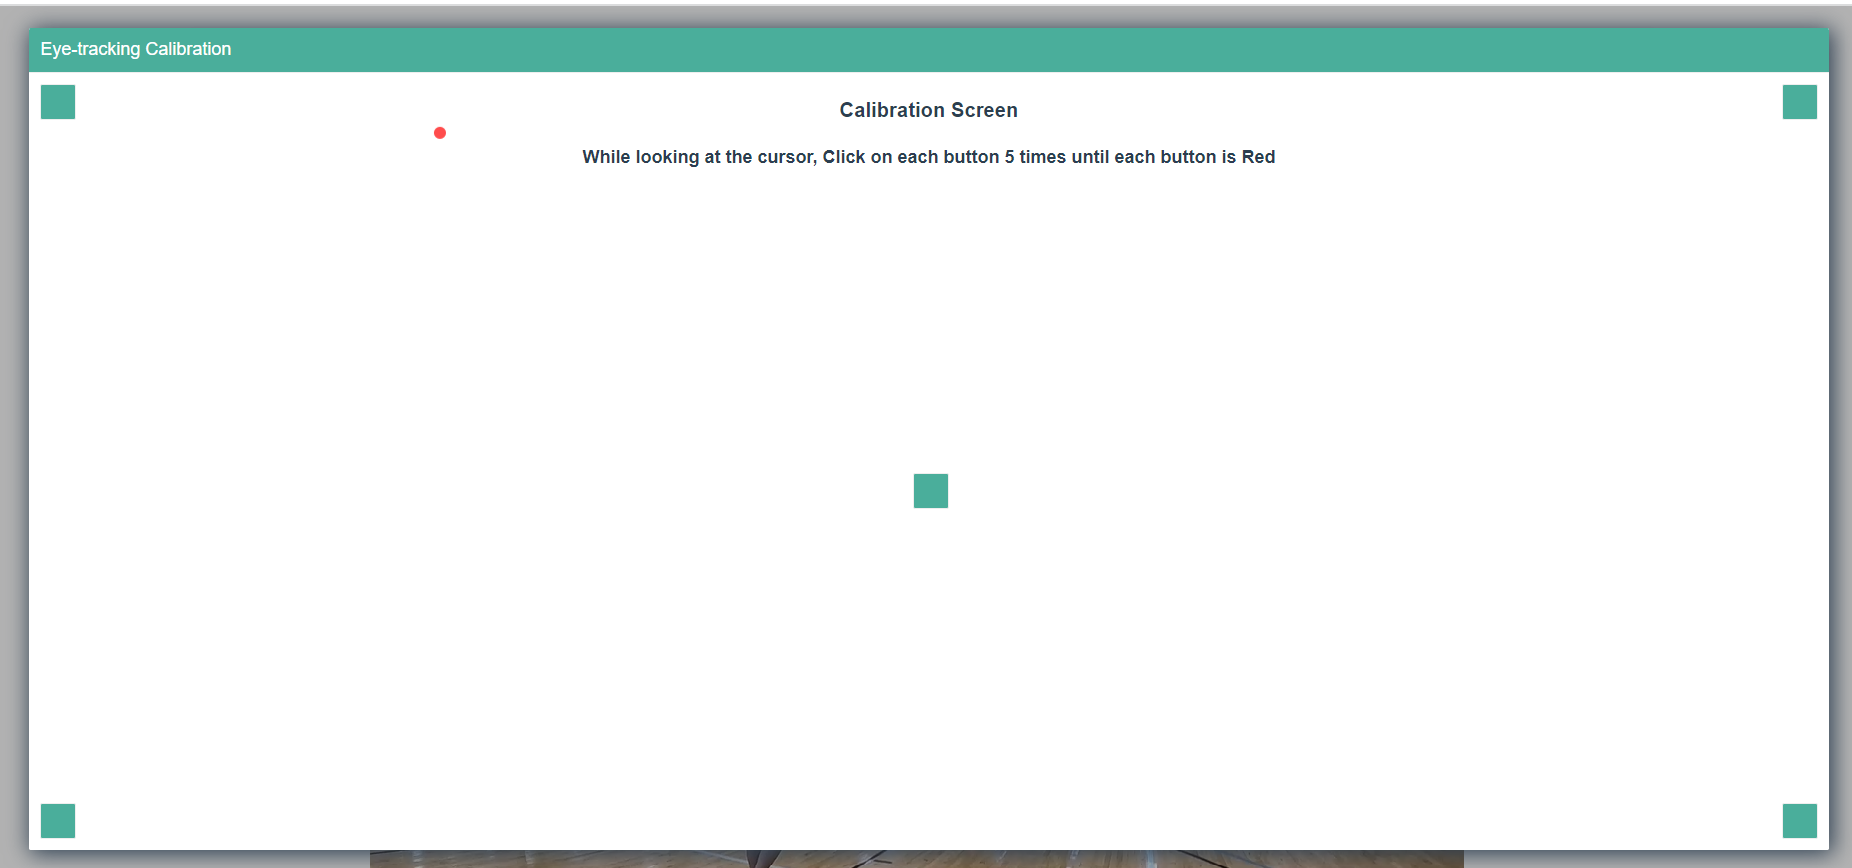
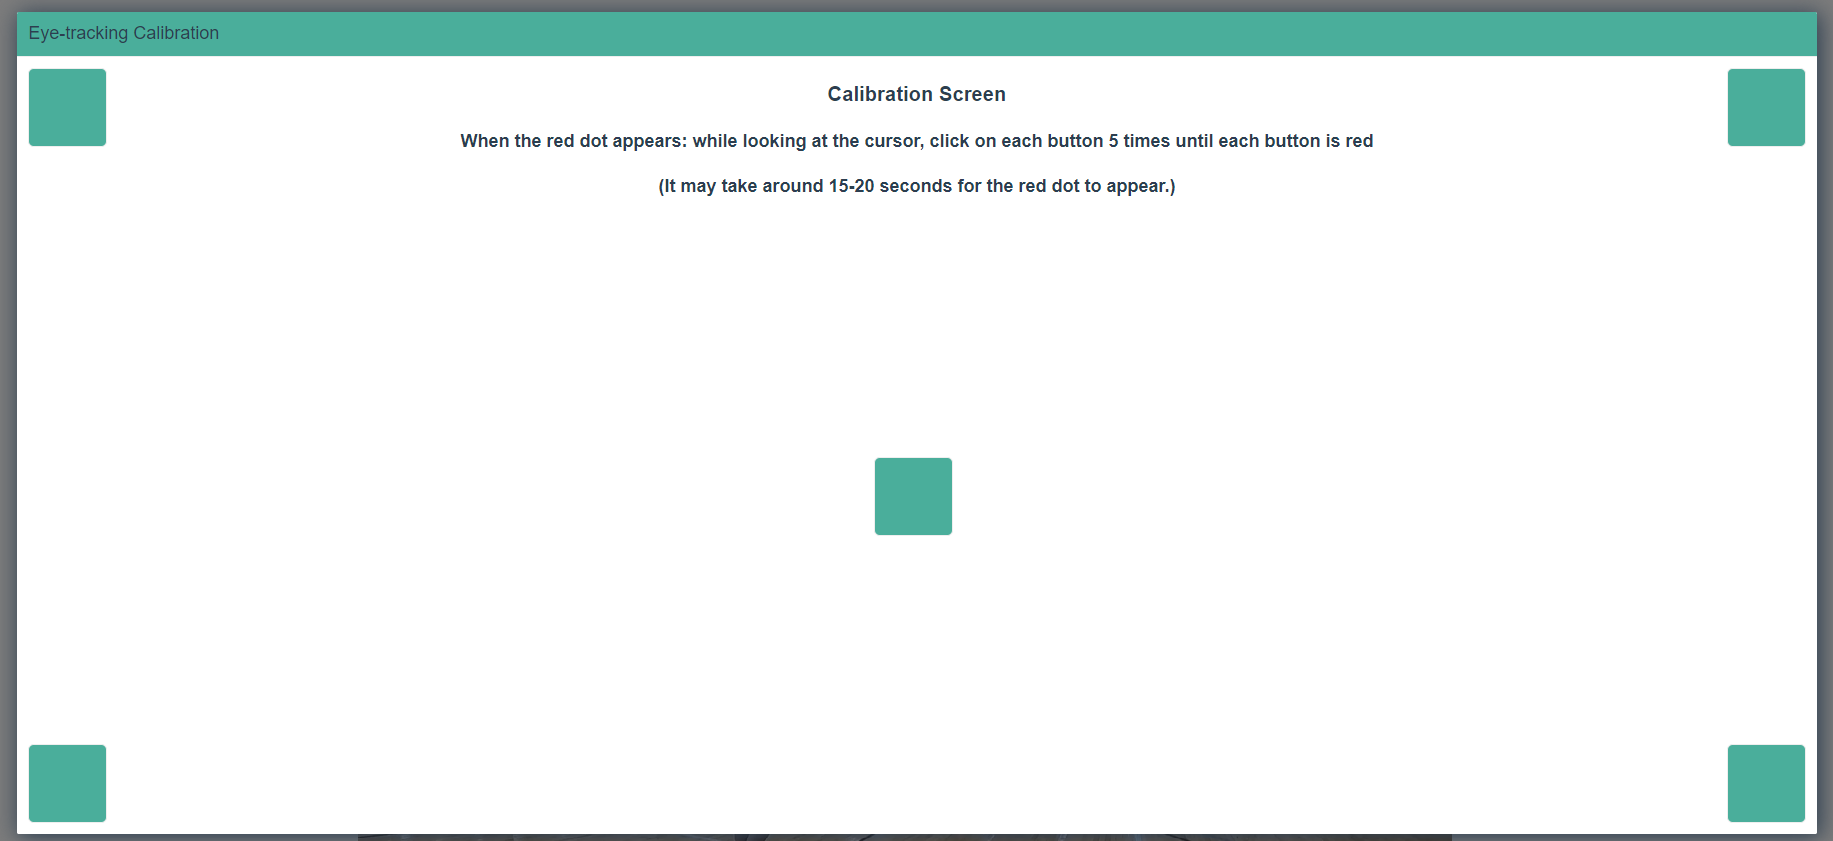
update user.md

Changed region(s): [[0.0, 0.0, 1.0, 1.0], [0.3421, 0.2164, 0.653, 0.2473], [0.4664, 0.5256, 0.5286, 0.6492]]

diff --git a/Documentation/User.md b/Documentation/User.md
@@ -59,14 +59,19 @@ This is the documentation that guides a user on how to use the Ref-Reps Right ca
 <img src="Assets/openVideo.png" width="600">
 
 - The User would be taken to a Lesson Creation page where they can add timestamps to the video they uploaded and cannot save/upload the lesson until they attach a question to it.
-- User would click the "Add Timestamp Here" button to save a timestamp where that timestamp would then appear in a menu above the big button with an additional option to add an activity.
+- User would click the "Timestamp" button to save a timestamp where that timestamp would then appear in a menu above the big button with an additional option to add an activity.
 - The user can also update the lesson name at any time by typing in the new name and clicking the Update Name button.
 - The user cannot save/upload the timestamp until each timestamp has a filled out question attached to it.
 
-<img src="Assets/questionTypeOptions.PNG" width="600">
+<img src="Assets/questionInfo.png" width="600">
+
+- To view the information of already added questions like the question, answer choices, and the correct answer, you just need to hover over the left icon for any activity.
+- When you hover over a question icon, a box will appear and display the specifics for that question.
+
+<img src="Assets/questionTypeOptions.png" width="600">
 
 - The User then clicks on the left icon beside the timestamp to create a new activity, and would be able to insert a question and possible answer choices, including selecting the correct answer, in the text fields provided before saving. 
-- The User has the option of creating a multiple choice, short answer, or Eye Tracking question.
+- The User has the option of creating a multiple choice, short answer, Eye Tracking, or Drag & Drop question.
 
 <img src="Assets/create_lesson.png" width="600">
 
@@ -75,6 +80,7 @@ This is the documentation that guides a user on how to use the Ref-Reps Right ca
 <img src="Assets/eyeTrackingQuestion.png" width="600">
 
 - For the eye-tracking question, you can write the question, and then choose the quadrant of the screen the student should be looking at. 
+- You also have the option to choose between Corner Quadrants and Vertical Quadrants of the screen.
 - On the "Assign New Activity" popup, the user must click the save button if they wish to attach the question to the timestamp. Clicking close would not add the question to the timestamp, and the admin would need to add the question again.
 - Once finished adding questions and timestamps, the User can click the "Save" button at the bottom left corner of the timestamps and activities list which will upload the timestamps and questions and redirect the user back to the page where they can select lessons to add timestamps to.
 - If the user is done editing lessons, they can click the Save button to go back to the main admin page.
@@ -92,7 +98,7 @@ This is the documentation that guides a user on how to use the Ref-Reps Right ca
 ## Instructor Logged In
 <img src="Assets/instructorHomePage.png" width="600">
 
-- When an instructor logs in, they will see four buttons to choose from.
+- When an instructor logs in, they will see five buttons to choose from.
 
 <img src="Assets/createClass.png" width="600">
 
@@ -114,11 +120,11 @@ This is the documentation that guides a user on how to use the Ref-Reps Right ca
 - Instructor can select the Add/Remove Students button.
 - The instructor sees all available students, and can either click a student from the left section to remove from the class or a student from the right section to add to the class.
 
-<img src="Assets/addVideosToInstructorClass.png" width="600">
+<img src="Assets/addLessonsToInstructorClass.png" width="600">
 
 - Instructor can select the Add/Remove Lessons button.
 - Here they can see all of their custom lessons they can add to the class.
-- Right now there are zero lessons in the class, to add one, the instructor can just click a lesson from the right section.
+- Right now there are three lessons in the class, to add one, the instructor can just click a lesson from the right section.
 - To remove a lesson from the class, the instructor must select a lesson from the left section.
 - All students can only take video quizzes in lessons that are assigned to the classes they are in.
 
@@ -135,6 +141,28 @@ This is the documentation that guides a user on how to use the Ref-Reps Right ca
 
 - Back on the Intructor page, clicking the Update Your Lessons button will take you to a page that contains all of the Lesson Packs for that specific Instructor account. From here, an Instructor can select the lesson they want to edit, and they will go to the AssignTimestamps page, much the same as an admin.
 - From here, they can make any edits or customizations that will be completely their own. No other Instructors will have the edits that are made to that lesson.
+
+<img src="Assets/classResults.png" width="600">
+
+- Back on the Instructor Page, clicking the Student Results button, will send them to a page that shows the instructor all of their classes.
+
+<img src="Assets/lessonResults.png" width="600">
+
+- By clicking on a class, all of the lessons in the class appear.
+- To view the class' results for a lesson, the user should click on a lesson.
+
+<img src="Assets/studentResults.png" width="600">
+
+- After selecting a lesson, the instructor sees the students in the class.
+- To view the results of each student for the selected lesson, the instructor must select a student and the results will display to the right of the student list. 
+- The highest score for each quiz in the lesson taken by the student will display.
+- If the quiz contains any non eye-tracking or drag-and-drop questions, then they will have the option to view the time it took for the student to answer each question.
+
+<img src="Assets/studentTimes.png" width="600">
+
+- To view these times, the instructor selects the view buttton.
+- This displays the time it took for the student to answer each question.
+- Note: Eye-tracking and Drag & Drop questions do not have timers, so they don't have times.
 
 ## Student Logged In
 
@@ -175,9 +203,9 @@ This is the documentation that guides a user on how to use the Ref-Reps Right ca
 
 <img src="Assets/calibrationPage.png" width="600">
 
-- If the student selects accept to use their webcam, they are sent to the eye-tracking calibratiom page.
+- If the student selects accept to use their webcam, they are sent to the eye-tracking calibration page.
 - This page is only completed once per login session.
-- The student must wait around 5-10 seconds for the red dot to show up on their screen. Once it displays, the student must click all five buttons five times each until each one is red. 
+- The student must wait around 15-20 seconds for the red dot to show up on their screen. Once it displays, the student must click all five buttons five times each until each one is red. 
 - A pop-up then appears telling you to stare at the red button in the middle of the screen for 5 seconds to check the accuracy of the eye-tracking.
 - The user closes the pop-up and stares at the red button.
 - After 5 seconds, two buttons appear. 
@@ -187,9 +215,11 @@ This is the documentation that guides a user on how to use the Ref-Reps Right ca
 - The student is sent back to the video, and they can press play and start the quiz.
 - Questions can show up at any timestamps. 
 
-<img src="Assets/eyeTrackingQuestion2.png" width="600">
+<img src="Assets/eye-TrackingQuestion.png" width="600">
 
-- An eye-tracking quesiton may show up, and the student must look at the quadrant of the screen they think the answer is in.
+- An eye-tracking question may show up, and the student must look at the quadrant of the screen they think the answer is in.
+- A modal will display when it's time for an eye-tracking question.
+- It will contain the question, and also a warning that this is an eye-tracking question so that the user is ready to look at the video.
 - A screen will display after the question to say if the student looked at the right part of the screen.
 
 ## Lesson Results
@@ -204,4 +234,5 @@ This is the documentation that guides a user on how to use the Ref-Reps Right ca
 <img src="Assets/viewResults.png" width="600">
 
 - The student can click on the View Results button at the top of the screen to view the results to all of the lessons they have taken.
+- This results page contains the lesson name, quiz name, the trainee's highest score for the quiz, and the number of attempts the user has taken for the quiz.
 - To take another quiz, the student must click the refreps logo image at the top left of the screen, which will take them back to the lesson selection page.
